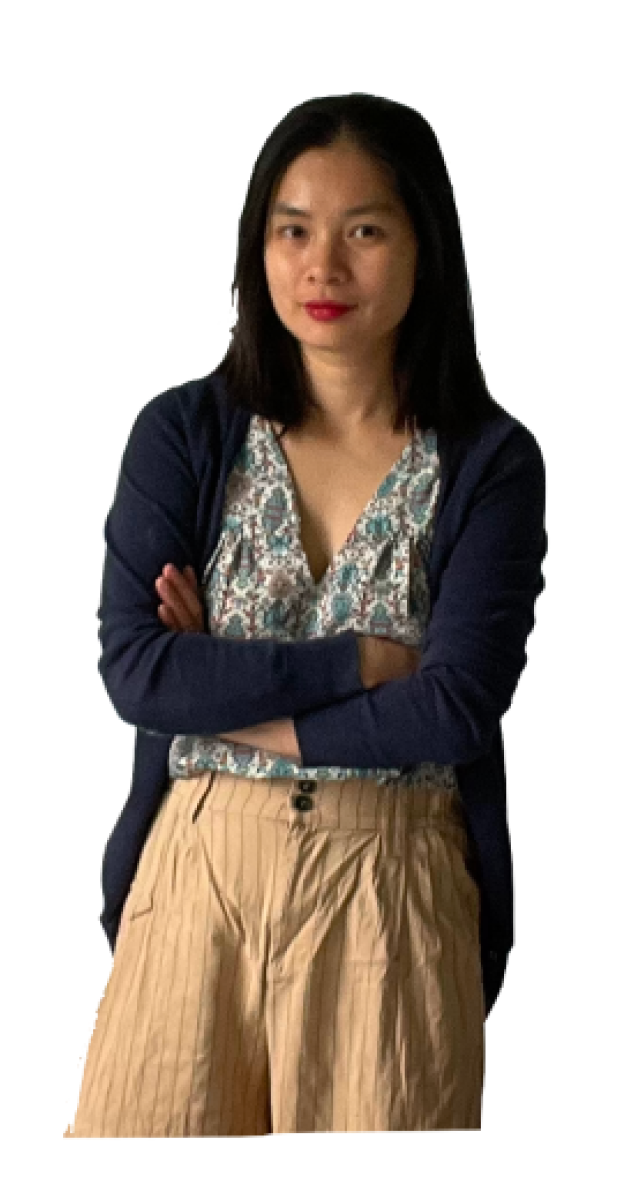
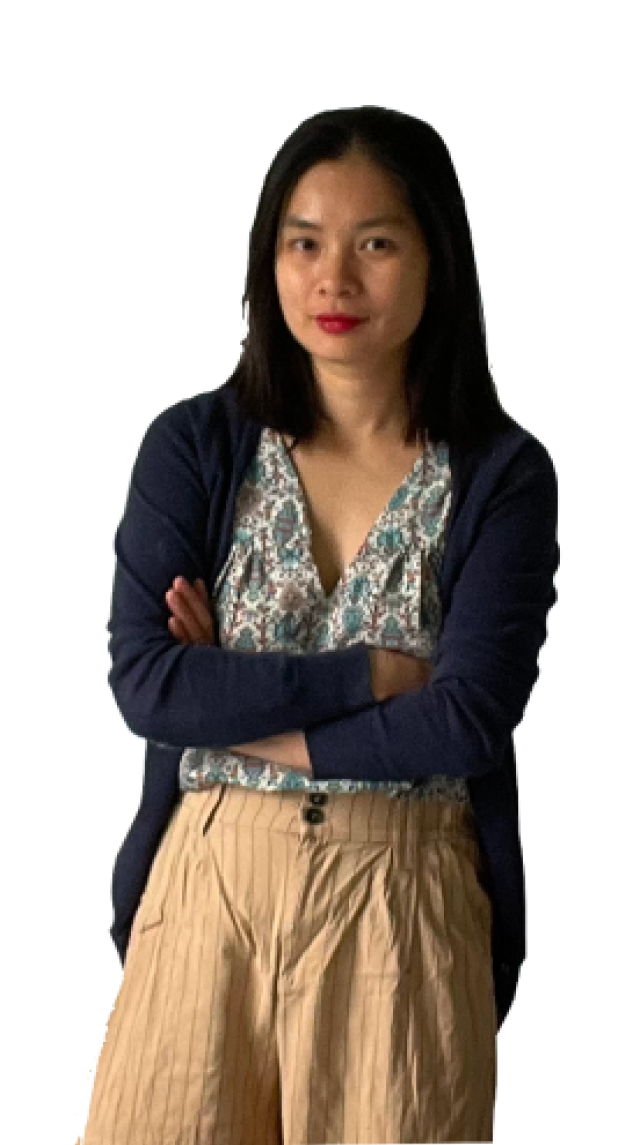
modify funfacts et w/h other elements
- replace image hero
- modify height modal
- add title portfolio

diff --git a/src/staticData/home/home.js b/src/staticData/home/home.js
@@ -39,6 +39,7 @@ import aboutImageDark from '../../../public/assets/images/hero/hero-img2-l.webp'
 import UX from '@/components/icons/home/UX';
 import LanguageIcon from '@/components/icons/home/LanguageIcon';
 import WorkingHours from '@/components/icons/home/WorkingHours';
+import EducationIcon from '@/components/icons/home/EducationIcon';
 
 
 
@@ -126,10 +127,10 @@ export const funItems = [
 	},
 	{
 		id: 2,
-		Svg: <UX />,
-		startCount: 1,
-		endCount: 15,
-		title: 'EXPÉRIENCE UTILISATEUR',
+		Svg: <EducationIcon />,
+		startCount: 0,
+		endCount: 3,
+		title: "DIPLÔMÉ D'ÉTUDES SUPÉRIEURS OBTENUES",
 	},
 	{
 		id: 3,
@@ -143,7 +144,7 @@ export const funItems = [
 		Svg: <HackathonIcon />,
 		startCount: 1,
 		endCount: 1,
-		title: 'HACKATHON',
+		title: 'PRIX DU HACKATHON POUR LA MEILLEURE UX/UI',
 	},
 ];
 

diff --git a/src/components/home/Portfolio/PortfolioModal.jsx b/src/components/home/Portfolio/PortfolioModal.jsx
@@ -16,12 +16,9 @@ const PortfolioModal = ({
 	);
 
 	return (
-		<CustomModal
-			isOpen={isOpen}
-			onRequestClose={onRequestClose}
-		>
+		<CustomModal isOpen={isOpen} onRequestClose={onRequestClose}>
 			{selectedImage && containsImageExtension && (
-				<div className="h-100 w-75 mx-auto position-relative">
+				<div className="h-100 p-4 overflow-auto">
 					<div className="row bg-white p-4">
 						<div className="col-md-6 col-12">
 							<h4>Name: {selectedPortfolio.name}</h4>
@@ -62,7 +59,7 @@ const PortfolioModal = ({
 			)}
 
 			{selectedImage && !containsImageExtension && (
-				<div className="h-100 p-4">
+				<div className="h-100 p-4 overflow-auto">
 					<div className="row">
 						<div className="col-md-6 col-12">
 							<h4>Name: {selectedPortfolio.name}</h4>

diff --git a/src/components/home/About/AboutMe.jsx b/src/components/home/About/AboutMe.jsx
@@ -4,7 +4,7 @@ import Image from "next/image";
 
 const AboutMe = () => {
   return (
-		<div className="about" data-title="À PROPOS" id="about">
+		<div className="about h-100" data-title="À PROPOS" id="about">
 			<div className="container">
 				<div className="section-title">
 					<h2 className="title">
@@ -13,7 +13,7 @@ const AboutMe = () => {
 				</div>
 				<div className="row align-items-end">
 					<div className="col-lg-6">
-						<div className="about-thumbnail-area">
+						<div className="about-thumbnail-area pb-4 pe-4 ps-0 mx-auto">
 							<Image
 								src={aboutMe?.aboutImageDark}
 								className="about-thumb dark img-fluid"

diff --git a/src/components/shared/CustomModal.jsx b/src/components/shared/CustomModal.jsx
@@ -21,12 +21,12 @@ const CustomModal = ({
       backgroundColor: containsImageExtension ? "transparent" : "white",
       // padding: '20px',
       borderRadius: "3px",
-      maxWidth: containsImageExtension ? "90%" : "90%",
+      maxWidth: containsImageExtension ? "80%" : "80%",
       // maxHeight: '80%',
-      height: "55%",
+      height: "auto",
       width:
-        (containsImageExtension || (isMobile && !containsImageExtension)) &&
-        "100%",
+        (containsImageExtension || (isMobile && !containsImageExtension)) ?
+        "100%" : "70",
       overflow: "hidden",
       border: "none",
       padding: 0,

diff --git a/src/components/home/Portfolio/Portfolio.jsx b/src/components/home/Portfolio/Portfolio.jsx
@@ -33,9 +33,11 @@ const Portfolio = () => {
 	return (
 		<div className="portfolio" data-title="Portfolio" id="portfolio">
 			<div className="container">
-				<h2 className="title">
-					<span>Portfolio</span>
-				</h2>
+				<div className="section-title">
+					<h2 className="title">
+						<span>Portfolio</span>
+					</h2>
+				</div>
 				<div className="portfolio-wrapper">
 					<ul className="filter-button">
 						{menuLists.map((item) => (

diff --git a/src/components/home/About/FunFactItem.jsx b/src/components/home/About/FunFactItem.jsx
@@ -13,7 +13,7 @@ const FunFactItem = ({ Svg, startCount, endCount, title }) => {
 
   return (
     <div className="column">
-      <div className="funfacts-item">
+      <div className="funfacts-item h-100">
         <div className="icon">{Svg}</div>
         <CountUp start={startCount} end={endCount} duration={5} redraw={true}>
           {({ countUpRef, start }) => (

diff --git a/src/components/home/Portfolio/PortfolioItem.jsx b/src/components/home/Portfolio/PortfolioItem.jsx
@@ -4,7 +4,7 @@ import Link from 'next/link';
 
 const PortfolioItem = ({ portfolio, onClick }) => (
 	<motion.div
-		className="col-6 col-md-4 portfolio-item"
+		className="col-12 col-md-4 portfolio-item"
 		style={{ transformOrigin: 'left bottom' }}
 		layout
 		initial={{ opacity: 0, rotate: -20 }}

diff --git a/src/components/home/About/FunFacts.jsx b/src/components/home/About/FunFacts.jsx
@@ -3,7 +3,7 @@ import FunFactItem from "./FunFactItem";
 
 const FunFacts = () => {
   return (
-    <div className="funfacts">
+    <div className="funfacts h-100">
       {funItems?.map((item) => (
         <FunFactItem key={item?.id} {...item} />
       ))}
